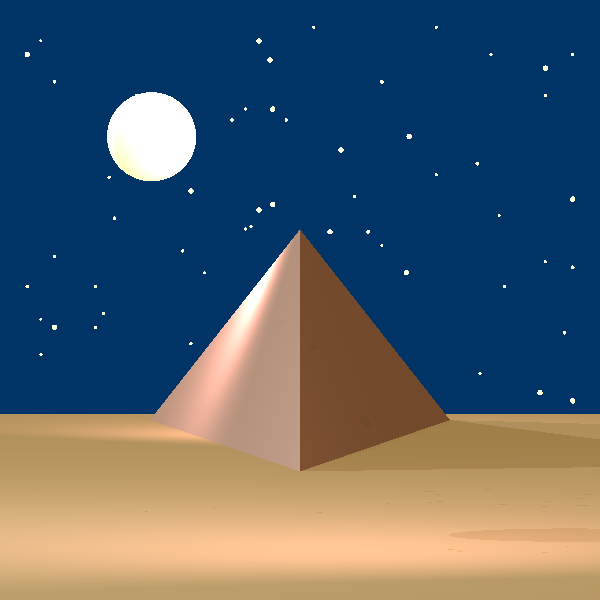
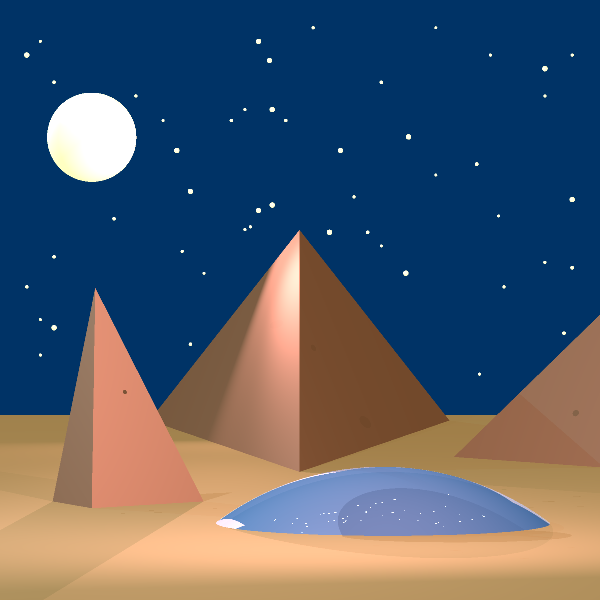
end of antialiasing

Changed region(s): [[0.0, 0.39, 1.0, 0.93], [0.06, 0.15, 0.33, 0.3]]

diff --git a/unitTests/FinalTest.java b/unitTests/FinalTest.java
@@ -43,18 +43,46 @@ public class FinalTest {
                 // Big Pyramid
                 new Triangle(new Point(0, -80, -400), new Point(-100, -80, -1000), new Point(100, -80, -1000))
                         .setEmission(Pyramid)
-                        .setMaterial(new Material().setKd(0.5).setKs(0.5).setShininess(30)),
+                        .setMaterial(new Material().setKd(0.5).setKs(0.5).setShininess(20)),
                 new Triangle(new Point(0, -80, -400), new Point(-100, -80, -1000), new Point(0, 40, -700))
                         .setEmission(Pyramid)
-                        .setMaterial(new Material().setKd(0.5).setKs(0.5).setShininess(30)),
+                        .setMaterial(new Material().setKd(0.5).setKs(0.5).setShininess(20)),
                 new Triangle(new Point(0, -80, -400), new Point(100, -80, -1000), new Point(0, 40, -700))
                         .setEmission(Pyramid)
-                        .setMaterial(new Material().setKd(0.5).setKs(0.5).setShininess(30)),
+                        .setMaterial(new Material().setKd(0.5).setKs(0.5).setShininess(20)),
                 new Triangle(new Point(-100, -80, -1000), new Point(100, -80, -1000), new Point(0, 40, -700))
                         .setEmission(Pyramid)
+                        .setMaterial(new Material().setKd(0.5).setKs(0.5).setShininess(20)),
+
+                //small pyramid 1
+                new Triangle(new Point(-80, -320, -100), new Point(-150, -320, -250), new Point(80, -320, -250))
+                        .setEmission(Pyramid)
                         .setMaterial(new Material().setKd(0.5).setKs(0.5).setShininess(30)),
+                new Triangle(new Point(-80, -320, -100), new Point(-150, -320, -250), new Point(-80, 5, -175))
+                        .setEmission(Pyramid)
+                        .setMaterial(new Material().setKd(0.5).setKs(0.5).setShininess(30)),
+                new Triangle(new Point(-80, -320, -100), new Point(80, -320, -250), new Point(-80, 5, -175))
+                        .setEmission(Pyramid)
+                        .setMaterial(new Material().setKd(0.5).setKs(0.5).setShininess(30)),
+                new Triangle(new Point(-150, -320, -250), new Point(80, -320, -250), new Point(-80, 5, -175))
+                        .setEmission(Pyramid)
+                        .setMaterial(new Material().setKd(0.5).setKs(0.5).setShininess(30)),
+                //small pyramid 2
+                new Triangle(new Point(160, -320, -250), new Point(300, -320, -700), new Point(-150, -320, -700))
+                        .setEmission(Pyramid)
+                        .setMaterial(new Material().setKd(0.5).setKs(0.5).setShininess(30)),
+                new Triangle(new Point(160, -320, -250), new Point(300, -320, -700), new Point(160, 5, -475))
+                        .setEmission(Pyramid)
+                        .setMaterial(new Material().setKd(0.5).setKs(0.5).setShininess(30)),
+                new Triangle(new Point(160, -320, -250), new Point(-150, -320, -700), new Point(160, 5, -475))
+                        .setEmission(Pyramid)
+                        .setMaterial(new Material().setKd(0.5).setKs(0.5).setShininess(30)),
+                new Triangle(new Point(300, -320, -700), new Point(-150, -320, -700), new Point(160, 5, -475))
+                        .setEmission(Pyramid)
+                        .setMaterial(new Material().setKd(0.5).setKs(0.5).setShininess(30)),
+
                 //moon
-                new Sphere(new Point(-50, 55, -11), 15d) //
+                new Sphere(new Point(-70, 55, -11), 15d) //
                         .setEmission(new Color(241,235,156)) //
                         .setMaterial(new Material().setKd(0.5).setKs(0.5).setShininess(30)),
                 //Stars
@@ -150,9 +178,9 @@ public class FinalTest {
                         .setEmission(new Color(241,235,156))
                         .setMaterial(new Material().setKd(0.2).setKs(0.5).setShininess(30)),
 
-                new Sphere(new Point(-75, -10, -100), 0.6d)
-                        .setEmission(new Color(241,235,156))
-                        .setMaterial(new Material().setKd(0.2).setKs(0.5).setShininess(30)),
+//                new Sphere(new Point(-75, -10, -100), 0.6d)
+//                        .setEmission(new Color(241,235,156))
+//                        .setMaterial(new Material().setKd(0.2).setKs(0.5).setShininess(30)),
 
                 new Sphere(new Point(-95 , 95,-100), 0.55d)
                         .setEmission(new Color(241,235,156))
@@ -178,9 +206,9 @@ public class FinalTest {
                         .setEmission(new Color(241,235,156))
                         .setMaterial(new Material().setKd(0.2).setKs(0.5).setShininess(30)),
 
-                new Sphere(new Point(-70, 45, -100), 0.6d)
-                        .setEmission(new Color(241,235,156))
-                        .setMaterial(new Material().setKd(0.2).setKs(0.5).setShininess(30)),
+//                new Sphere(new Point(-70, 45, -100), 0.6d)
+//                        .setEmission(new Color(241,235,156))
+//                        .setMaterial(new Material().setKd(0.2).setKs(0.5).setShininess(30)),
 
                 new Sphere(new Point(50 , 46,-100), 0.55d)
                         .setEmission(new Color(241,235,156))
@@ -242,9 +270,9 @@ public class FinalTest {
                         .setEmission(new Color(241,235,156))
                         .setMaterial(new Material().setKd(0.2).setKs(0.5).setShininess(30)),
 
-                new Sphere(new Point(88, -34, -100), 1d)
-                        .setEmission(new Color(241,235,156))
-                        .setMaterial(new Material().setKd(0.2).setKs(0.5).setShininess(30)),
+//                new Sphere(new Point(88, -34, -100), 1d)
+//                        .setEmission(new Color(241,235,156))
+//                        .setMaterial(new Material().setKd(0.2).setKs(0.5).setShininess(30)),
 
                 new Sphere(new Point(-15, 33, -100), 1d)
                         .setEmission(new Color(241,235,156))
@@ -262,9 +290,9 @@ public class FinalTest {
                         .setEmission(new Color(241,235,156))
                         .setMaterial(new Material().setKd(0.2).setKs(0.5).setShininess(30)),
 
-                new Sphere(new Point(-75, 5, -100), 0.6d)
-                        .setEmission(new Color(241,235,156))
-                        .setMaterial(new Material().setKd(0.2).setKs(0.5).setShininess(30)),
+//                new Sphere(new Point(-75, 5, -100), 0.6d)
+//                        .setEmission(new Color(241,235,156))
+//                        .setMaterial(new Material().setKd(0.2).setKs(0.5).setShininess(30)),
 
                 new Sphere(new Point(75, 5, -100), 0.6d)
                         .setEmission(new Color(241,235,156))
@@ -306,17 +334,17 @@ public class FinalTest {
                         .setEmission(new Color(241,235,156))
                         .setMaterial(new Material().setKd(0.2).setKs(0.5).setShininess(30)),
 
-                new Sphere(new Point(-72, -5, -100), 0.6d)
-                        .setEmission(new Color(241,235,156))
-                        .setMaterial(new Material().setKd(0.2).setKs(0.5).setShininess(30)),
+//                new Sphere(new Point(-72, -5, -100), 0.6d)
+//                        .setEmission(new Color(241,235,156))
+//                        .setMaterial(new Material().setKd(0.2).setKs(0.5).setShininess(30)),
 
                 new Sphere(new Point(-95 , -7,-100), 0.55d)
                         .setEmission(new Color(241,235,156))
                         .setMaterial(new Material().setKd(0.2).setKs(0.5).setShininess(30)),
 
-                new Sphere(new Point(100, -37, -100), 1d)
-                        .setEmission(new Color(241,235,156))
-                        .setMaterial(new Material().setKd(0.2).setKs(0.5).setShininess(30)),
+//                new Sphere(new Point(100, -37, -100), 1d)
+//                        .setEmission(new Color(241,235,156))
+//                        .setMaterial(new Material().setKd(0.2).setKs(0.5).setShininess(30)),
 
                 new Sphere(new Point(-90, -10, -100), 1d)
                         .setEmission(new Color(241,235,156))
@@ -324,7 +352,11 @@ public class FinalTest {
 
                 new Sphere(new Point(5, 100, -100), 0.6d)
                         .setEmission(new Color(241,235,156))
-                        .setMaterial(new Material().setKd(0.2).setKs(0.5).setShininess(30))
+                        .setMaterial(new Material().setKd(0.2).setKs(0.5).setShininess(30)),
+                //
+                new Sphere(new Point(30, -160, -80), 100d)
+                        .setEmission(Sky)
+                        .setMaterial(new Material().setKd(0.25).setKs(0.25).setKr(1).setShininess(10))
 
 
         );
@@ -335,19 +367,22 @@ public class FinalTest {
                         .setKl(4E-4).setKq(2E-5));
         scene.getLights().add(new PointLight(moonlight, new Point(-200, 200, 0)).setKl(0.0001).setKq(0.00001));
         scene.getLights().add(
-                new SpotLight(new Color(700, 400, 400),new Point(-50, 35, -750),new Vector(1,-1,-1))
+                new SpotLight(new Color(700, 400, 400),new Point(-50, 35, -750),new Vector(1,1,4))
                         .setKl(4E-4).setKq(2E-5));
         scene.getLights().add(
-                new DirectionalLight(moonlight,new Vector(1,-0.5,1))
+                new DirectionalLight(new Color(10,40,50),new Vector(1,-0.5,1))
         );
 
 
         //render the image//
-        camera.setImageWriter(new ImageWriter("finalTestImage", 600, 600)) //
+        camera.setImageWriter(new ImageWriter("finalTestImage", 600, 600))
+                .setantiAliasing(3)//
                 .renderImage() //
                 .writeToImage();
 
-
+//        camera.setImageWriter(new ImageWriter("finalTestImageRotate", 600, 600)).rotateCamera(0,0,-10) //
+//                .renderImage() //
+//                .writeToImage();
     }
 }
 

diff --git a/src/renderer/Camera.java b/src/renderer/Camera.java
@@ -67,8 +67,6 @@ public class Camera {
 
     private ImageWriter imageWriter;
     private RayTracerBase rayTracer;
-    private boolean adaptive = false;
-    private int threadsCount = 1;
 
     /**
      * simple Camera constructor which get as input location point and two orthogonal vectors represent the direction
@@ -164,29 +162,6 @@ public class Camera {
         return centerPoint;
     }
 
-//    /**
-//     * setter - chaining method
-//     *
-//     * @param distance - the object's actual distance from the camera center
-//     * @return the camera with the configured distance
-//     */
-//    public Camera setVPDistance(int distance) {
-//        this.distance = distance;
-//        return this;
-//    }
-//
-//    /**
-//     * setter - chaining method
-//     *
-//     * @param width   - the width of the view plane
-//     * @param height- the height of the view plane
-//     * @return the camera with the configured view plane
-//     */
-//    public Camera setVPSize(double width, double height) {
-//        this.width = width;
-//        this.height = height;
-//        return this;
-//    }
 
     /**
      * set the view plane size
@@ -255,25 +230,6 @@ public class Camera {
         this.antiAliasing = antiAliasing;
         return this;
     }
-    /**
-     *
-     * @param adaptive
-     * @return the camera with set adaptive for the camera
-     */
-    public Camera setadaptive(boolean adaptive) {
-        this.adaptive = adaptive;
-        return this;
-    }
-    /**
-     *
-     * @param threadsCount
-     * @return the camera with set threadsCount for the camera
-     */
-    public Camera setthreadsCount(int threadsCount) {
-        this.threadsCount = threadsCount;
-        return this;
-    }
-
 
 
     // ***************** Operations ******************** //
@@ -289,13 +245,6 @@ public class Camera {
      * @return - the ray which goes through the pixel
      */
     public Ray constructRay(int nX, int nY, int j, int i) {
-
-//        Point pIJ = getCenterOfPixel(nX, nY, j, i); // center point of the pixel
-//
-//        //Vi,j = Pi,j - P0, the direction of the ray to the pixel(j, i)
-//        Vector vIJ = pIJ.subtract(p0);
-//        return new Ray(p0, vIJ);
-
 
         //view plane center Point
         Point Pc = p0.add(vTo.scale(distance));
@@ -332,67 +281,18 @@ public class Camera {
       * @return Camera after making changes
      */
     public Camera renderImage() {
-
         if (p0 == null || vRight == null
                 || vUp == null || vTo == null || distance == 0
                 || width == 0 || height == 0 || centerPoint == null
                 || imageWriter == null || rayTracer == null) {
             throw new MissingResourceException("Missing camera data", Camera.class.getName(), null);
         }
-        Pixel.initialize(imageWriter.getNy(), imageWriter.getNx(), 1);
-
-
-        if (!adaptive) {
-            while (threadsCount-- > 0) {
-                new Thread(() -> {
-                    for (Pixel pixel = new Pixel(); pixel.nextPixel(); Pixel.pixelDone())
-                        imageWriter.writePixel(pixel.col, pixel.row, rayTracer.TraceRays(constructRays(imageWriter.getNx(), imageWriter.getNy(), pixel.col, pixel.row, antiAliasing)));
-                }).start();
-            }
-            Pixel.waitToFinish();
-        } else {
-            while (threadsCount-- > 0) {
-                new Thread(() -> {
-                    for (Pixel pixel = new Pixel(); pixel.nextPixel(); Pixel.pixelDone())
-                        imageWriter.writePixel(pixel.col, pixel.row, AdaptiveSuperSampling(imageWriter.getNx(), imageWriter.getNy(), pixel.col, pixel.row, antiAliasing));
-                }).start();
-            }
-            Pixel.waitToFinish();
-        }
+        int nX = imageWriter.getNx();
+        int nY = imageWriter.getNy();
+        for (int i = 0; i < nX; i++)
+            for (int j = 0; j < nY; j++)
+                imageWriter.writePixel(i, j, this.castRay(nX, nY, j, i));
         return this;
-
-    }
-
-
-
-
-    /**
-     * Checks the color of the pixel with the help of individual rays and averages between them and only
-     * if necessary continues to send beams of rays in recursion
-     * @param nX Pixel length
-     * @param nY Pixel width
-     * @param j The position of the pixel relative to the y-axis
-     * @param i The position of the pixel relative to the x-axis
-     * @param numOfRays The amount of rays sent
-     * @return Pixel color
-     */
-    private Color AdaptiveSuperSampling(int nX, int nY, int j, int i,  int numOfRays)  {
-        Vector Vright = vRight;
-        Vector Vup = vUp;
-        Point cameraLoc = this.getP0();
-        int numOfRaysInRowCol = (int)Math.floor(Math.sqrt(numOfRays));
-        if(numOfRaysInRowCol == 1)  return rayTracer.traceRay(constructRayThroughPixel(nX, nY, j, i));
-
-        Point pIJ = getCenterOfPixel(nX, nY, j, i);
-
-        double rY = alignZero(height / nY);
-        // the ratio Rx = w/Nx, the width of the pixel
-        double rX = alignZero(width / nX);
-
-
-        double PRy = rY/numOfRaysInRowCol;
-        double PRx = rX/numOfRaysInRowCol;
-        return rayTracer.AdaptiveSuperSamplingRec(pIJ, rX, rY, PRx, PRy,cameraLoc,Vright, Vup,null);
     }
 
 
@@ -401,13 +301,17 @@ public class Camera {
      *
      * @param nX   - resolution on X axis (number of pixels in row)
      * @param nY   - resolution on Y axis (number of pixels in column)
-     * @param icol - pixel's column number (pixel index in row)
-     * @param jrow - pixel's row number (pixel index in column)
+     * @param i - pixel's column number (pixel index in row)
+     * @param j - pixel's row number (pixel index in column)
      */
-    private void castRay(int nX, int nY, int icol, int jrow) {
-        Ray ray = constructRay(nX, nY, jrow, icol); //build a ray with the given parameters
-        Color pixelColor = rayTracer.traceRay(ray);
-        imageWriter.writePixel(jrow, icol, pixelColor); //color the pixel
+    private Color castRay(int nX, int nY, int i, int j) {
+        // anti aliasing
+        List<Ray> rays = constructRays(nX, nY, j, i,antiAliasing);
+        Color color = Color.BLACK;
+        for (int k = 0; k < rays.size(); k++)
+            color = color.add(rayTracer.traceRay(rays.get(k)));
+        color = color.reduce(rays.size());
+        return color;
     }
 
 
